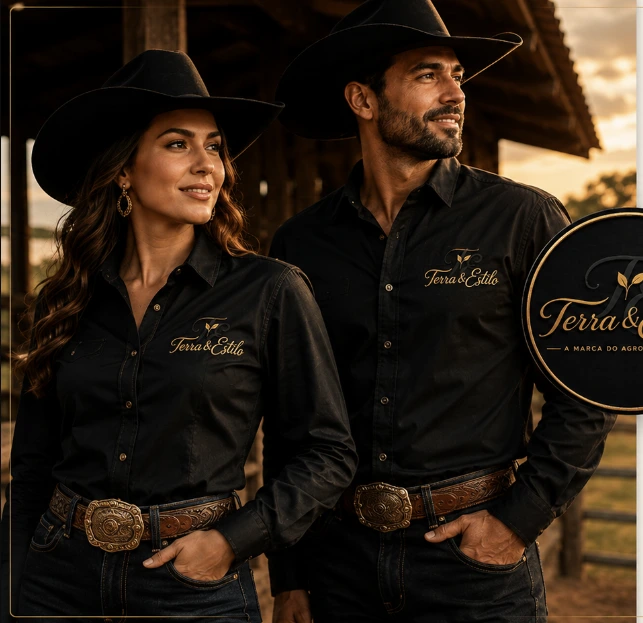
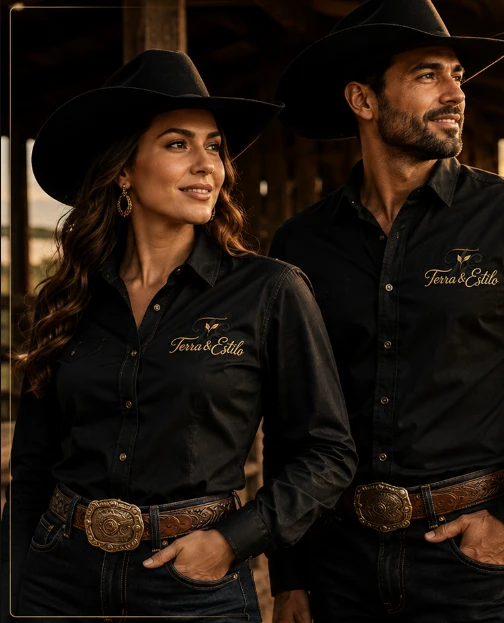
ajuste

diff --git a/src/data/homeData.js b/src/data/homeData.js
@@ -11,7 +11,7 @@ export const BRAND_LOGO_HEIGHT = 1024
 export const BRAND_MARBLE_SRC = assetUrl('/images/brand/marble-texture.svg')
 /** Cast photo cropped from terra-estilo-novo-hero mockup (left panel only). */
 export const COUPLE_HERO_SRC = coupleHeroAsset
-export const COUPLE_HERO_WIDTH = 643
+export const COUPLE_HERO_WIDTH = 504
 export const COUPLE_HERO_HEIGHT = 623
 
 export const topBarMessages = [
